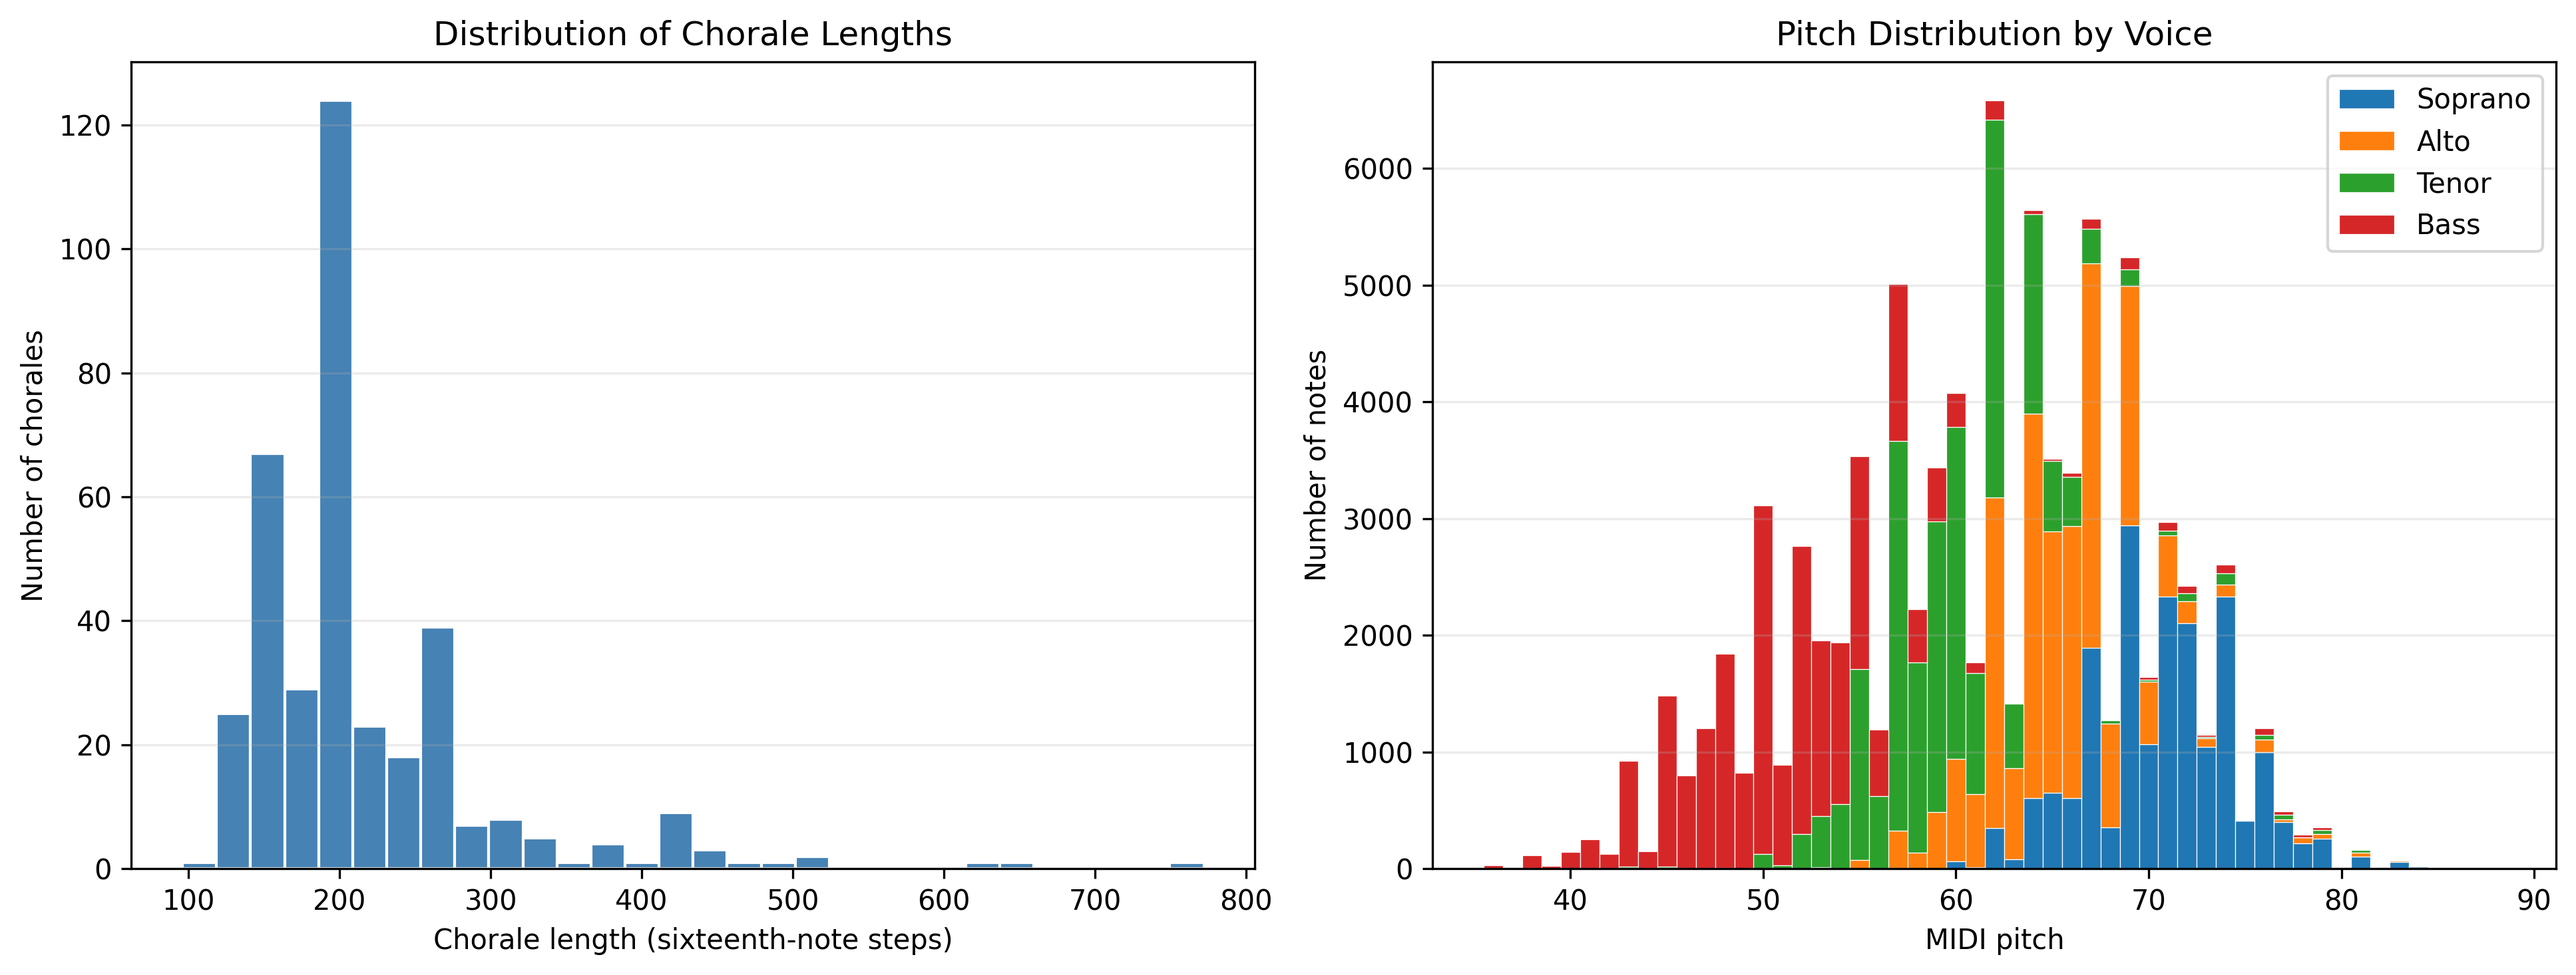
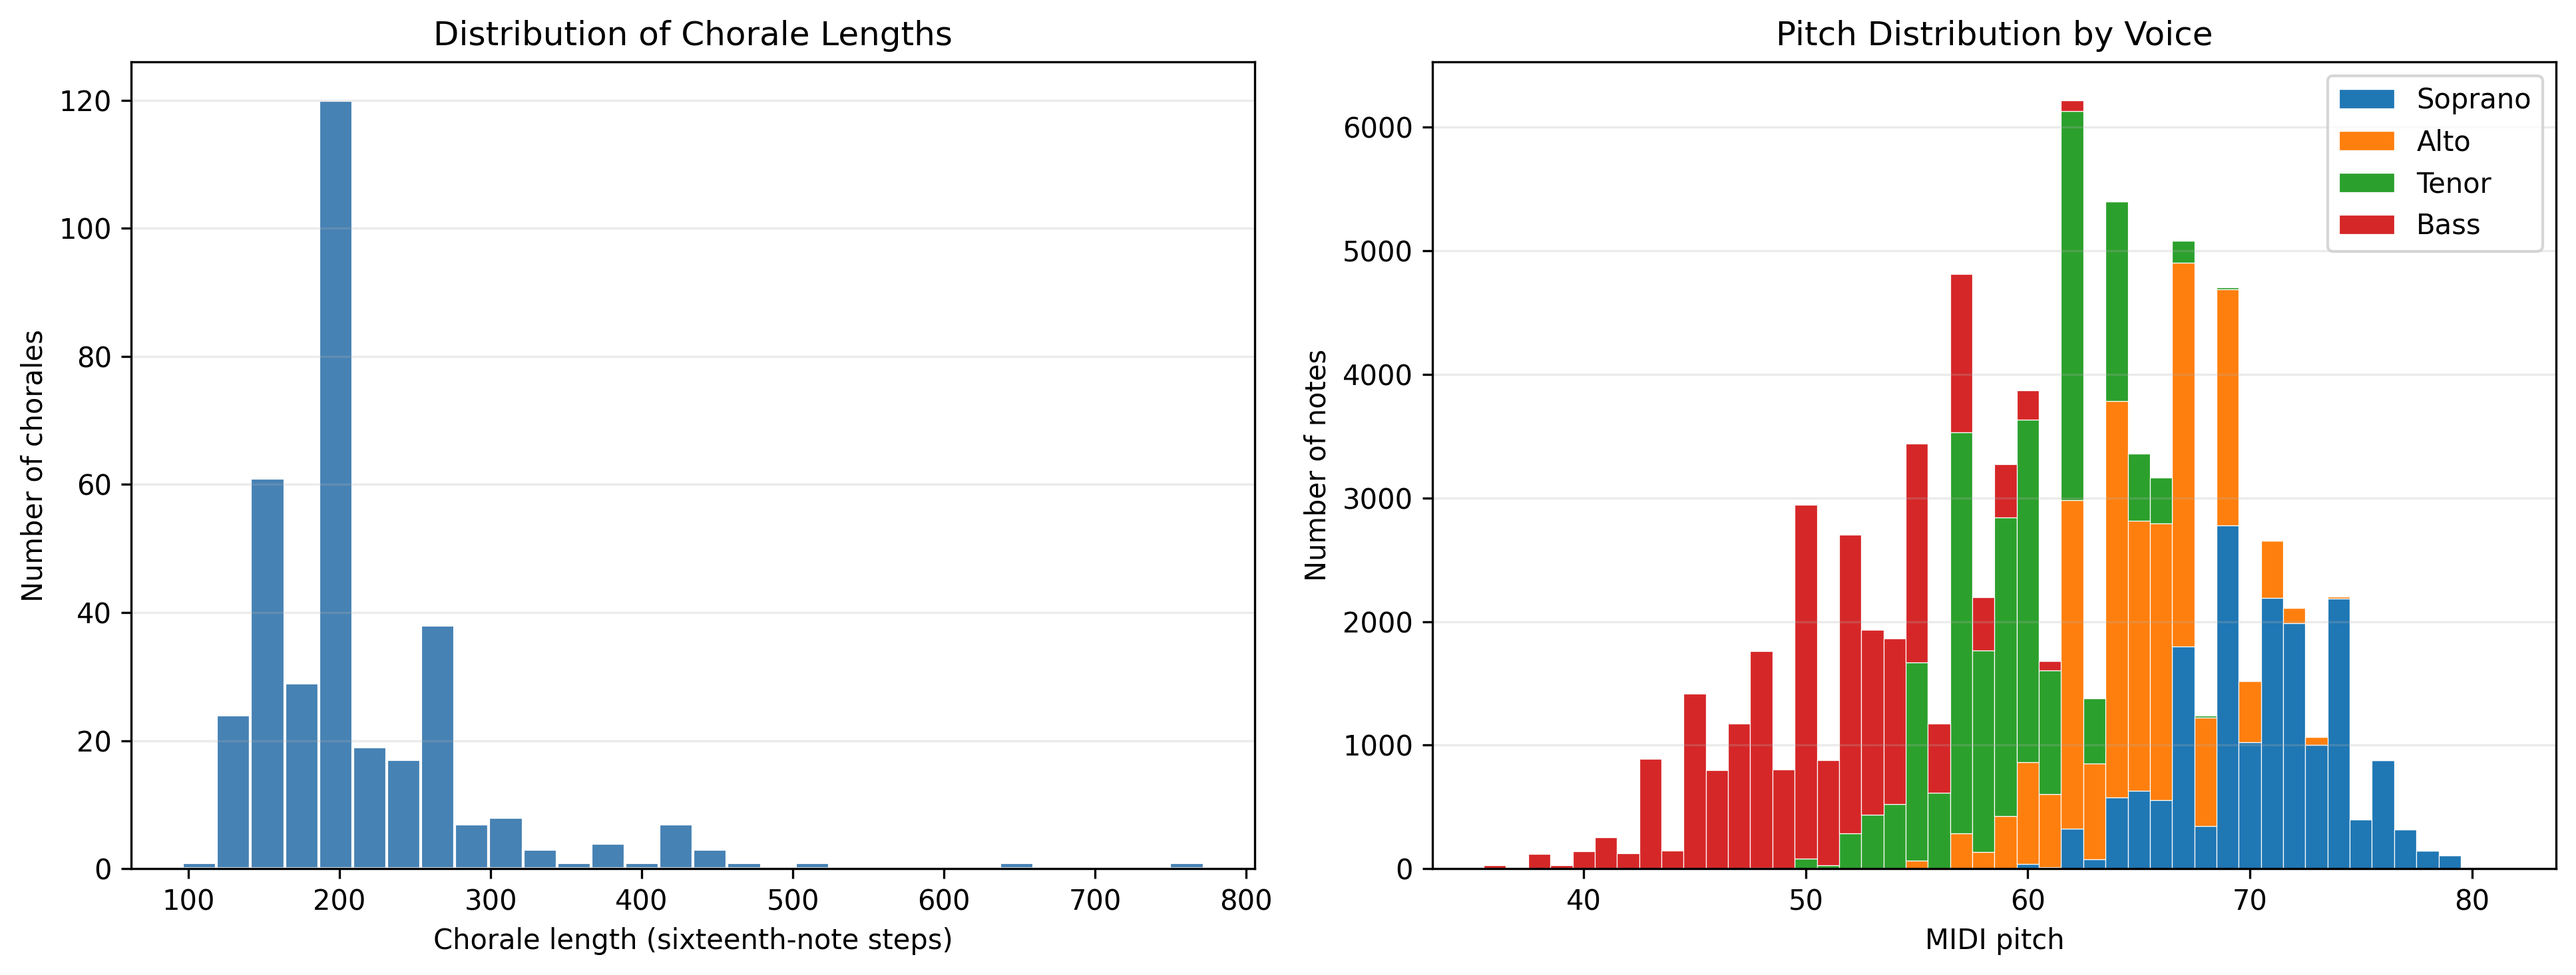
Complete TODOs

diff --git a/proposal/main.tex b/proposal/main.tex
@@ -62,12 +62,12 @@ A deep learning approach is reasonable here for three reasons. First, the task i
 
 \paragraph{Source.} We use the Bach chorales included in the music21 Python library~\cite{cuthbert2010music21}. Bach's compositions are in the public domain, and the music21 corpus and encodings are licensed for non-commerical use, which avoids the licensing uncertainty of individually sequenced MIDI files from other websites. As a possible extension, we may also use the two-part Inventions and three-part Sinfonias.
 
-\paragraph{Summary statistics.} Table~\ref{tab:stats} reports the key properties of the dataset, and Figure~\ref{fig:explore} shows the distribution of chorale lengths and of pitches in each voice. (TODO: fill in using a short music21 script, and add one or two sentences on what these statistics imply for the difficulty of the task, e.g.\ sequence length relative to model context size.)
+\paragraph{Summary statistics.} Table~\ref{tab:stats} reports the key properties of the dataset, and Figure~\ref{fig:explore} shows the distribution of chorale lengths and of pitches in each voice. The variation in chorale lengths is relevant to sequence modelling, as longer chorales would require larger model context windows to capture dependencies across the entire sequence. Additionally, the different pitch ranges of the four voices may contain voice specific characteristics that must be accounted for when learning musical structure.
 
 \begin{figure}[t]
   \centering
   \includegraphics[width=0.9\linewidth,keepaspectratio]{bach_chorale_distributions.png}
-  \caption{Exploratory statistics of the Bach chorale dataset. Left: distribution of chorale lengths in sixteenth-note time steps. Right: distribution of MIDI pitches for the soprano, alto, tenor, and bass voices. (TODO: update caption to describe the final figure.)}
+  \caption{Exploratory statistics of the Bach chorale dataset. Left: distribution of chorale lengths in sixteenth-note time steps. Right: stacked histogram of MIDI pitches for the four voices: soprano, alto, tenor, and bass.}
   \label{fig:explore}
 \end{figure}
 
@@ -79,11 +79,11 @@ A deep learning approach is reasonable here for three reasons. First, the task i
     \toprule
     Statistic & Value \\
     \midrule
-    Number of chorales & 371 \\
-    Total notes (all voices) & 86311 \\ 
-    Mean / max length (sixteenth-note steps) & 217.44 / 772 \\
-    Pitch range: soprano, alto, tenor, bass & [$F_3$, $E_6$], [$F_3$, $C\sharp_6$], [$G_2$, $B_{-5}$], [$C_2$, $A_5$] \\
-    Major / minor key proportion & 52.6\% / 47.4\% \\
+    Number of chorales & 347 \\
+    Total notes (all voices) & 80391 \\ 
+    Mean / max length (sixteenth-note steps) & 213.96 / 772 \\
+    Pitch range: soprano, alto, tenor, bass & [57, 81], [53, 74], [48, 69], [36, 64] \\
+    Major / minor key proportion & 49.9\% / 50.1\% \\
     Mean sequence length after tokenization & TODO \\
     \bottomrule
   \end{tabular}
@@ -91,7 +91,7 @@ A deep learning approach is reasonable here for three reasons. First, the task i
 
 \paragraph{Representation.} Each chorale is quantized to a grid of sixteenth-note time steps. At each step we record one token per voice in a fixed order (soprano, alto, tenor, bass). Each token is either a MIDI pitch, a \emph{hold} token indicating that the previous note continues, or a \emph{rest} token. The four voices are interleaved into a single sequence, so that a piece of $T$ time steps becomes a sequence of $4T$ tokens. The vocabulary therefore contains the pitches observed in the data plus the hold, rest, start, and end tokens (TODO: report final vocabulary size). This ordering means that when the model generates a bass note, the soprano, alto, and tenor notes at the same time step are already known, which allows the constraint checks described in Section~\ref{sec:model}.
 
-\paragraph{Cleaning.} We will discard chorales that do not contain exactly four voices and chorales whose note durations cannot be represented on the sixteenth-note grid, and we will report how many pieces each filter removes. (TODO: report counts.)
+\paragraph{Cleaning.} We will discard chorales that do not contain exactly four voices (20 chorales) and chorales whose note durations cannot be represented on the sixteenth-note grid (4 chorales), resulting in a total of 24 chorales being removed.
 
 \paragraph{Augmentation.} Because roughly 370 pieces is small for a Transformer, we transpose each training chorale to every key in which all voices remain within their observed ranges. Transposition preserves musical structure exactly, so it is an appropriate augmentation for this domain.
 
@@ -145,7 +145,7 @@ A deep learning approach is reasonable here for three reasons. First, the task i
 
 \section{Work Division}
 
-Work is divided by stage of the pipeline, so that each member owns one component and the handoffs between components are clearly defined. Table~\ref{tab:work} lists each member's responsibilities and estimated weekly time commitment. Each member also writes the report section describing their component, and a second member edits it. (TODO: adjust names and hours.)
+Work is divided by stage of the pipeline, so that each member owns one component and the handoffs between components are clearly defined. Table~\ref{tab:work} lists each member's responsibilities and estimated weekly time commitment. Each member also writes the report section describing their component, and a second member edits it.
 
 \begin{table}[t]
   \centering
@@ -158,22 +158,22 @@ Work is divided by stage of the pipeline, so that each member owns one component
     \midrule
     Alan & Token representation design; rule checker and constrained decoding; music-theory background; qualitative analysis of generated samples. & 6 & 5 & 5 & 4 \\
     Saurabh & Transformer implementation and training loop; overfitting a single chorale; hyperparameter tuning; training curves; parameter count and architecture figure. & 3 & 7 & 7 & 3 \\
-    Kamil & Data loading, cleaning, and tokenization; summary statistics; transposition augmentation; data split; README and code documentation. & 8 & 4 & 3 & 5 \\
-    Haris & Markov chain and LSTM baselines; evaluation scripts (likelihood, rule-violation rate, pitch-class distance); results tables; final report assembly. & 3 & 6 & 6 & 5 \\
+    Haris & Data loading, cleaning, and tokenization; summary statistics; transposition augmentation; data split; README and code documentation. & 8 & 4 & 3 & 5 \\
+    Kamil & Markov chain and LSTM baselines; evaluation scripts (likelihood, rule-violation rate, pitch-class distance); results tables; final report assembly. & 4 & 6 & 5 & 5 \\
     \bottomrule
   \end{tabular}
 \end{table}
 
-\paragraph{Dependencies.} Alan and Member 3 agree on the token format jointly in the first two days, since every later component depends on it. Member 3 delivers a preliminary tokenized dataset by the end of week 1, so that the Transformer and baselines can begin training before cleaning is finalized. Saurabh and Member 4 share a single training and evaluation interface, so that all models are compared under identical conditions. If a component falls behind, the member responsible for the downstream component assists through pair programming.
+\paragraph{Dependencies.} Alan and Haris agree on the token format jointly in the first two days, since every later component depends on it. Member 3 delivers a preliminary tokenized dataset by the end of week 1, so that the Transformer and baselines can begin training before cleaning is finalized. Saurabh and Kamil share a single training and evaluation interface, so that all models are compared under identical conditions. If a component falls behind, the member responsible for the downstream component assists through pair programming.
 
-\paragraph{Collaboration.} The team meets weekly (TODO: day and time, e.g.\ Tuesdays 4--5 pm) to review progress against the timeline below, and coordinates between meetings through a group chat and a shared GitHub repository, with changes merged through pull requests reviewed by one other member.
+\paragraph{Collaboration.} The team meets weekly on Tuesday between 4 to 5pm to review progress against the timeline below, and coordinates between meetings through a group chat and a shared GitHub repository, with changes merged through pull requests reviewed by one other member.
 
 \paragraph{Timeline.}
-\textbf{Week 1:} data pipeline and statistics complete; Markov baseline trained; Transformer overfits a single chorale.
-\textbf{Week 2:} full Transformer and LSTM training; rule checker implemented.
-\textbf{Week 3:} hyperparameter tuning; constrained decoding integrated; evaluation run.
-\textbf{Week 4:} analysis, figures, README, and report writing.
-(TODO: align with actual course deadlines.)
+\textbf{Week 1} (Nov 3 - Nov 9): data pipeline and statistics complete; Markov baseline trained; Transformer overfits a single chorale.
+\textbf{Week 2} (Nov 10 - Nov 16): full Transformer and LSTM training; rule checker implemented.
+\textbf{Week 3} (Nov 17 - Nov 23): hyperparameter tuning; constrained decoding integrated; evaluation run.
+\textbf{Week 4} (Nov 24 - Nov 30): analysis, figures, README, and report writing.
+\textbf{Week 5} (Dec 1 - Dec 8): final review and submission.
 
 \bibliographystyle{plainnat}
 \bibliography{references}

diff --git a/proposal/get_dataset_statistics.py b/proposal/get_dataset_statistics.py
@@ -16,12 +16,42 @@ def get_stats():
 
     major_count = 0
     minor_count = 0
-
+    initial_chorale_count = 0
+    invalid_voices = 0
+    invalid_durations = 0
 
     for chorale in chorales:
+        initial_chorale_count += 1
         score = corpus.parse(chorale)
         duration = score.highestTime
-        chorale_lengths.append(round(duration * 4))
+        parts = score.parts
+
+
+        # Validate chorale
+        if len(parts) != 4:
+            invalid_voices += 1
+            continue
+
+        valid_durations = True
+
+        for part in parts:
+            for element in part.flatten().notesAndRests:
+                duration_steps = element.duration.quarterLength * 4
+
+                if not np.isclose(duration_steps, round(duration_steps)):
+                    valid_durations = False
+                    break
+
+            if not valid_durations:
+                break
+
+        if not valid_durations:
+            invalid_durations += 1
+            continue
+
+
+        steps = round(duration * 4)
+        chorale_lengths.append(steps)
 
         if score.analyze("key").mode == "major":
             major_count += 1
@@ -29,16 +59,15 @@ def get_stats():
             minor_count += 1
 
         parts = score.parts
-        if len(parts) >= 4:
-            for voice, part in zip(pitch_notes.keys(), parts[:4]):
-                for note in part.flatten().notes:
-                    if note.isNote:
-                        pitch_notes[voice].append(note.pitch.midi)
+        for voice, part in zip(pitch_notes.keys(), parts[:4]):
+            for note in part.flatten().notes:
+                if note.isNote:
+                    pitch_notes[voice].append(note.pitch.midi)
 
 
     pitch_ranges = {}
     for voice, pitches in pitch_notes.items():
-        pitch_ranges[voice] = (pitch.Pitch(min(pitches)).nameWithOctave, pitch.Pitch(max(pitches)).nameWithOctave)
+        pitch_ranges[voice] = (min(pitches), max(pitches))
 
 
     total_keys = major_count + minor_count
@@ -103,6 +132,10 @@ def get_stats():
     print(f"Total notes: {total_notes}")
     print(f"Mean chorale length: {mean_chorale_length:.2f}")
     print(f"Max chorale length: {max_chorale_length}")
+
+    print("Removed Chorales")
+    print("Incorrect number of voices:", invalid_voices)
+    print("Invalid durations:", invalid_durations)
 
     print("\nPitch ranges:")
     for voice, (low, high) in pitch_ranges.items():
